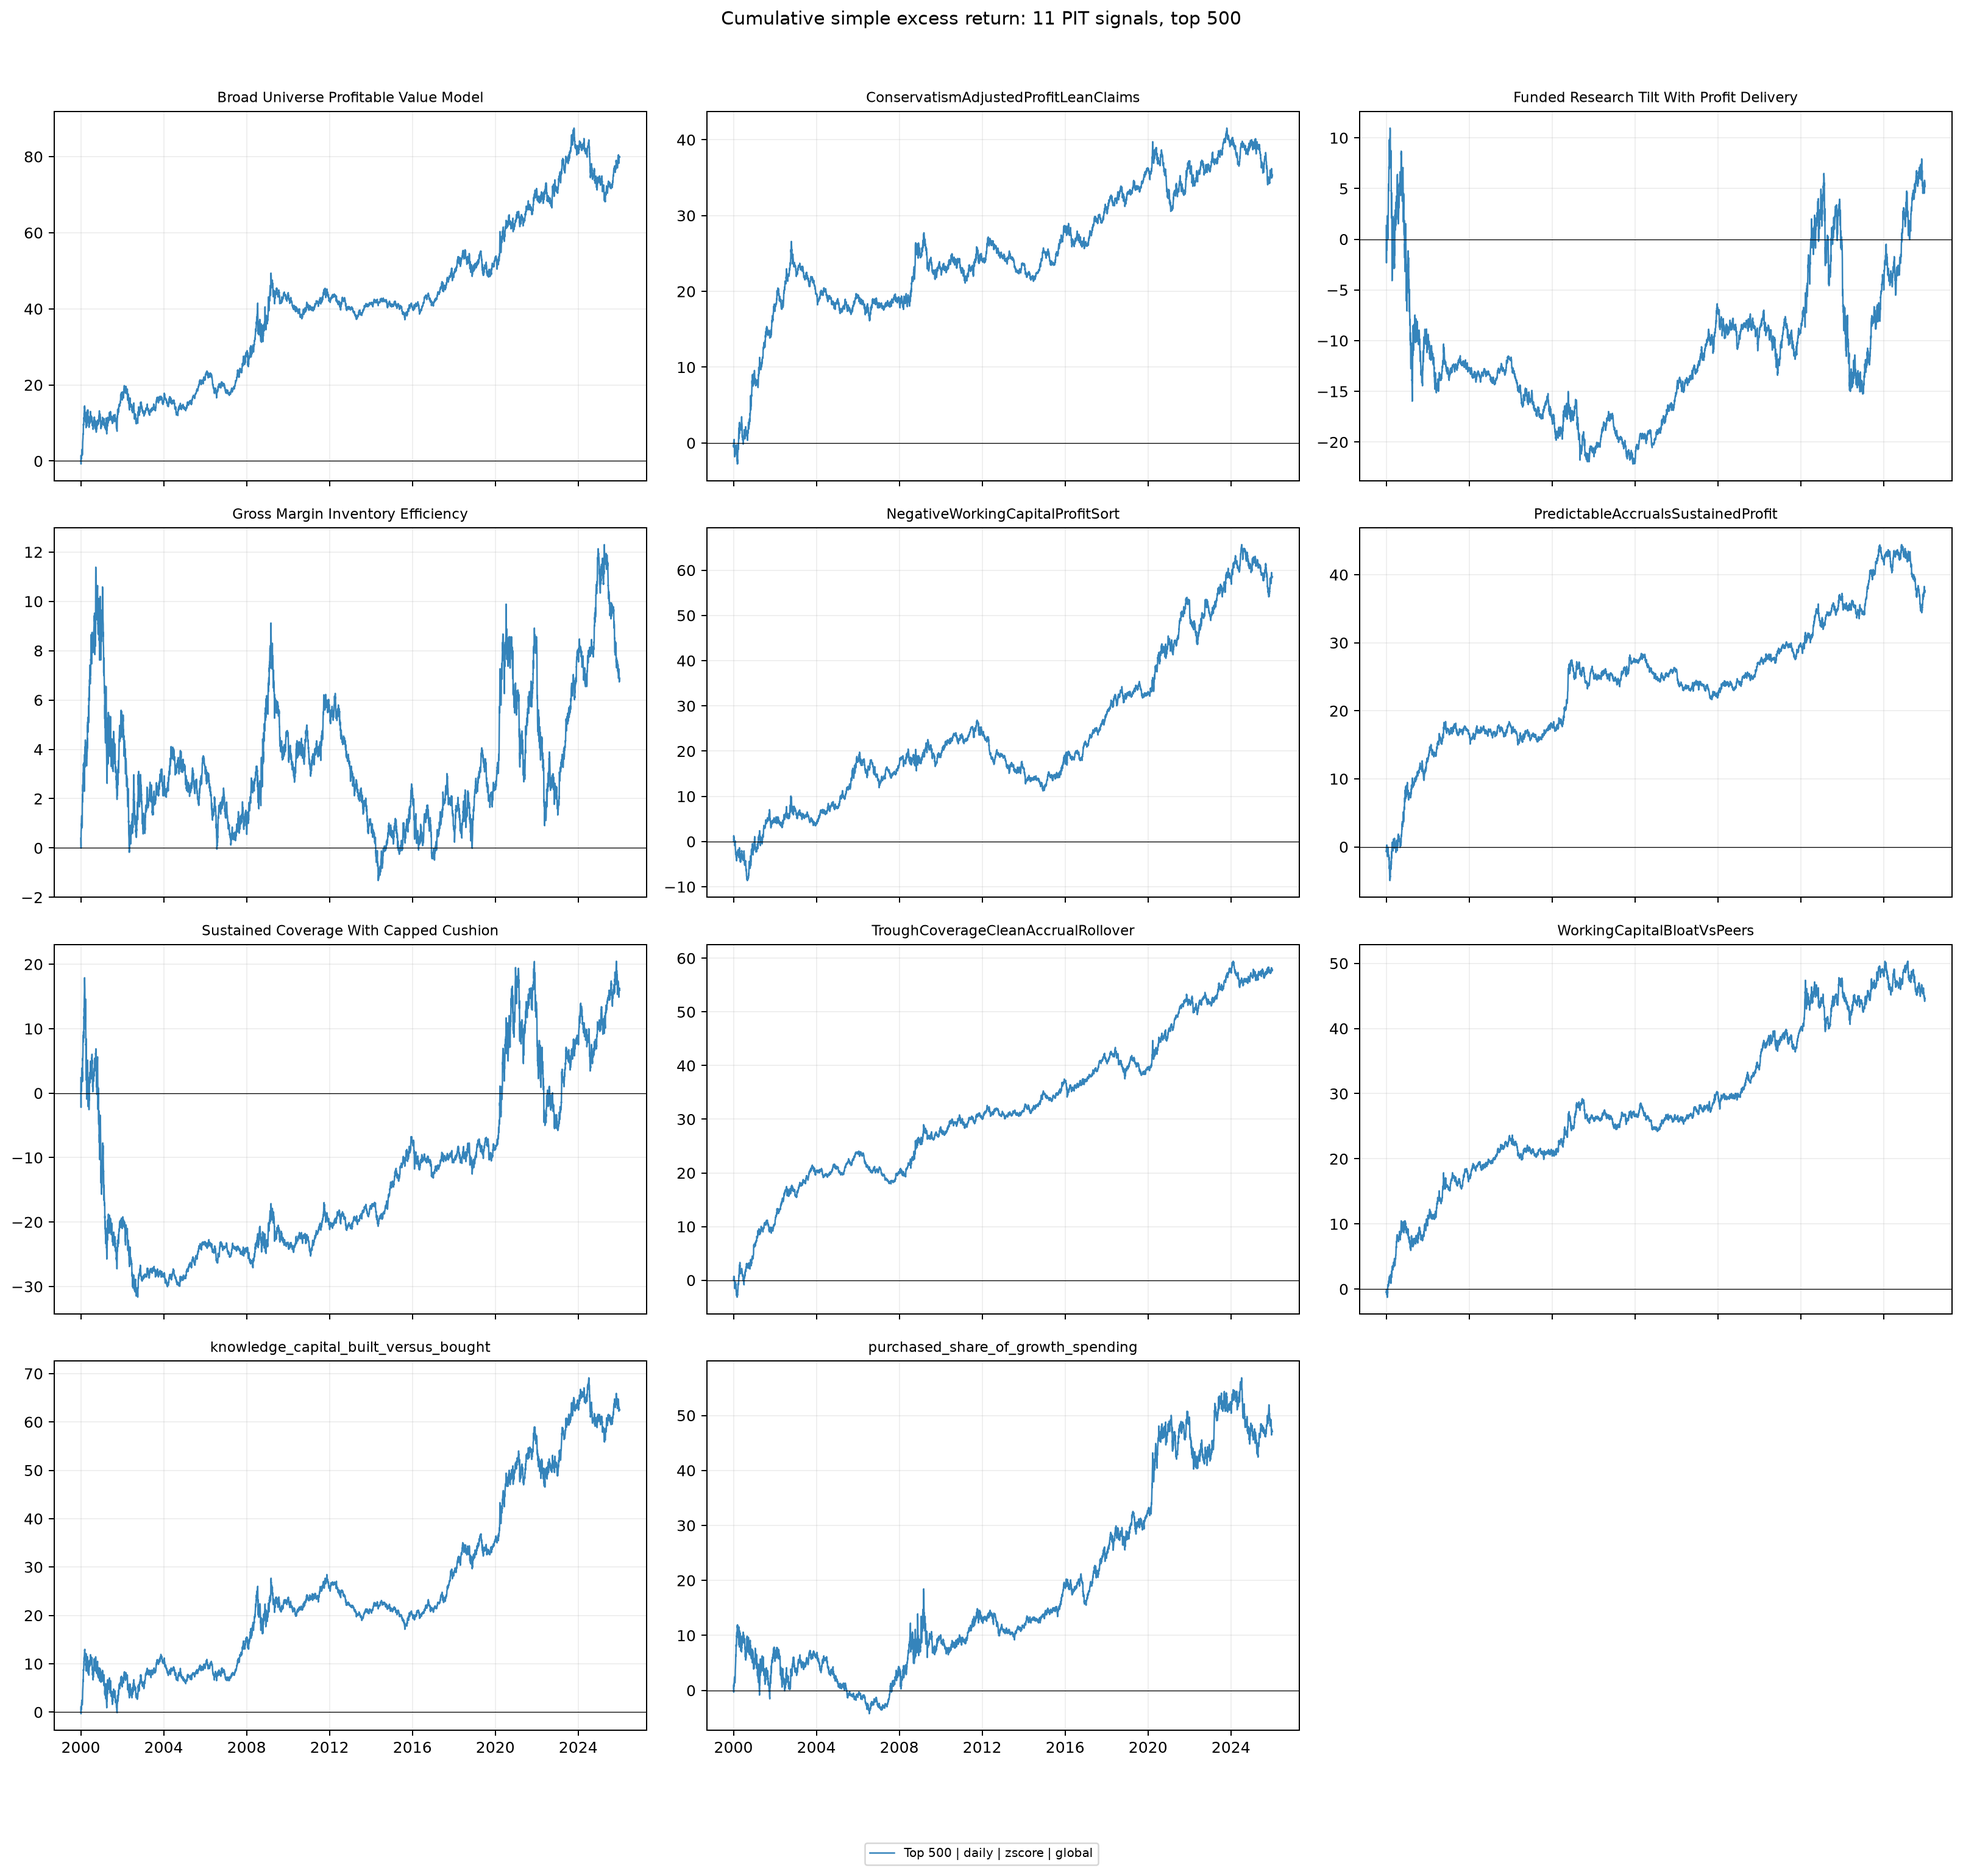
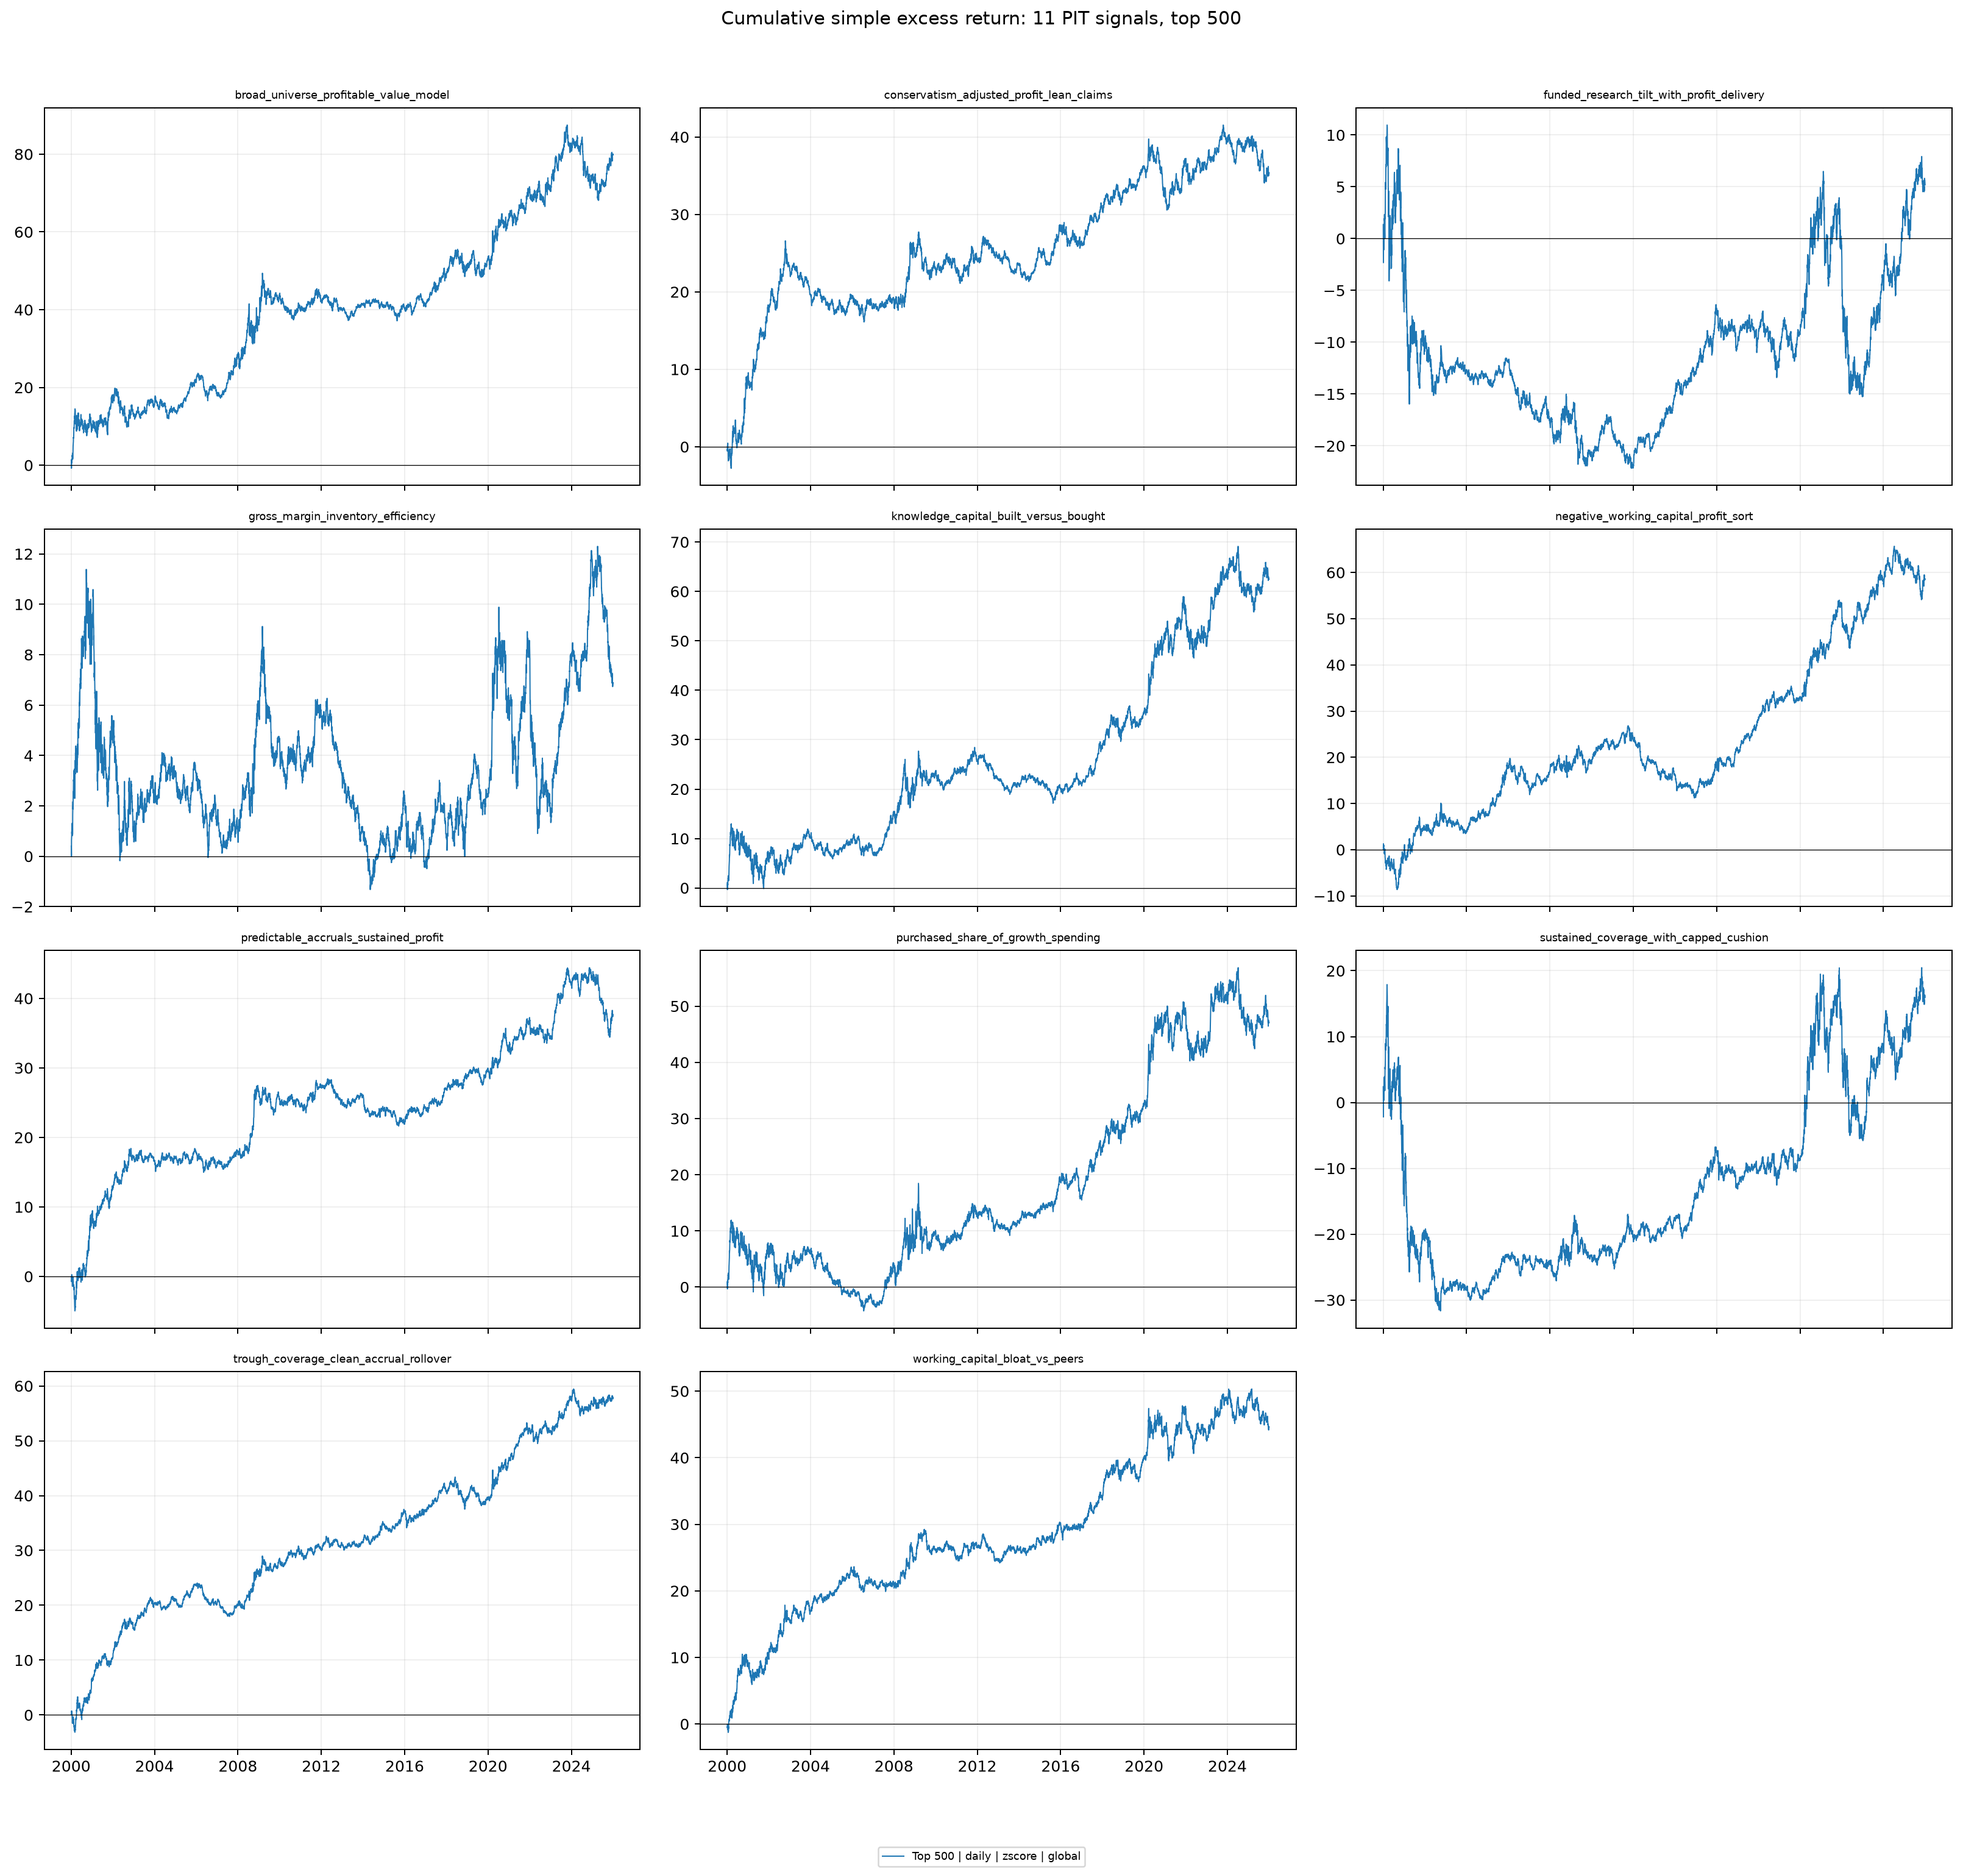
Standardize public signal labels

diff --git a/src/us_equities_signal_research/labels.py b/src/us_equities_signal_research/labels.py
@@ -1,0 +1,23 @@
+"""Stable public labels for the paper's eleven signal recipes."""
+
+from __future__ import annotations
+
+
+_CANONICAL: dict[str, str] = {
+    "purchased_share_of_growth_spending": "purchased_share_of_growth_spending",
+    "knowledge_capital_built_versus_bought": "knowledge_capital_built_versus_bought",
+    "PredictableAccrualsSustainedProfit": "predictable_accruals_sustained_profit",
+    "Funded Research Tilt With Profit Delivery": "funded_research_tilt_with_profit_delivery",
+    "WorkingCapitalBloatVsPeers": "working_capital_bloat_vs_peers",
+    "ConservatismAdjustedProfitLeanClaims": "conservatism_adjusted_profit_lean_claims",
+    "Sustained Coverage With Capped Cushion": "sustained_coverage_with_capped_cushion",
+    "Broad Universe Profitable Value Model": "broad_universe_profitable_value_model",
+    "NegativeWorkingCapitalProfitSort": "negative_working_capital_profit_sort",
+    "TroughCoverageCleanAccrualRollover": "trough_coverage_clean_accrual_rollover",
+    "Gross Margin Inventory Efficiency": "gross_margin_inventory_efficiency",
+}
+
+
+def canonical_signal_name(name: str) -> str:
+    """Return the uniform lower-snake-case public label for a recipe name."""
+    return _CANONICAL.get(name, name)

diff --git a/src/us_equities_signal_research/backtest.py b/src/us_equities_signal_research/backtest.py
@@ -12,6 +12,7 @@ import pandas as pd
 from .cache import load_score, store_score
 from .execution import DenseReturnEngine
 from .groups import sic_division_panel
+from .labels import canonical_signal_name
 from .market_data import panel as crsp_panel
 from .performance import performance_metrics
 from .pipeline import ensure_panels, panel
@@ -118,14 +119,15 @@ def _records(
     daily_return: pd.Series,
     weights: pd.DataFrame,
 ) -> tuple[pd.DataFrame, pd.DataFrame]:
+    label = canonical_signal_name(signal)
     metric = performance_metrics(daily_return, weights)
-    metric.insert(0, "signal", signal)
+    metric.insert(0, "signal", label)
     metric.insert(1, "rebalance_frequency", frequency)
     metric.insert(2, "weight_method", method)
     metric.insert(3, "sic_level", sic_level)
     daily = pd.DataFrame({"date": daily_return.index, "ls_return": daily_return.to_numpy()})
     daily["cum_return"] = (1.0 + daily["ls_return"].fillna(0.0)).cumprod() - 1.0
-    daily["signal"] = signal
+    daily["signal"] = label
     daily["rebalance_frequency"] = frequency
     daily["weight_method"] = method
     daily["sic_level"] = sic_level
